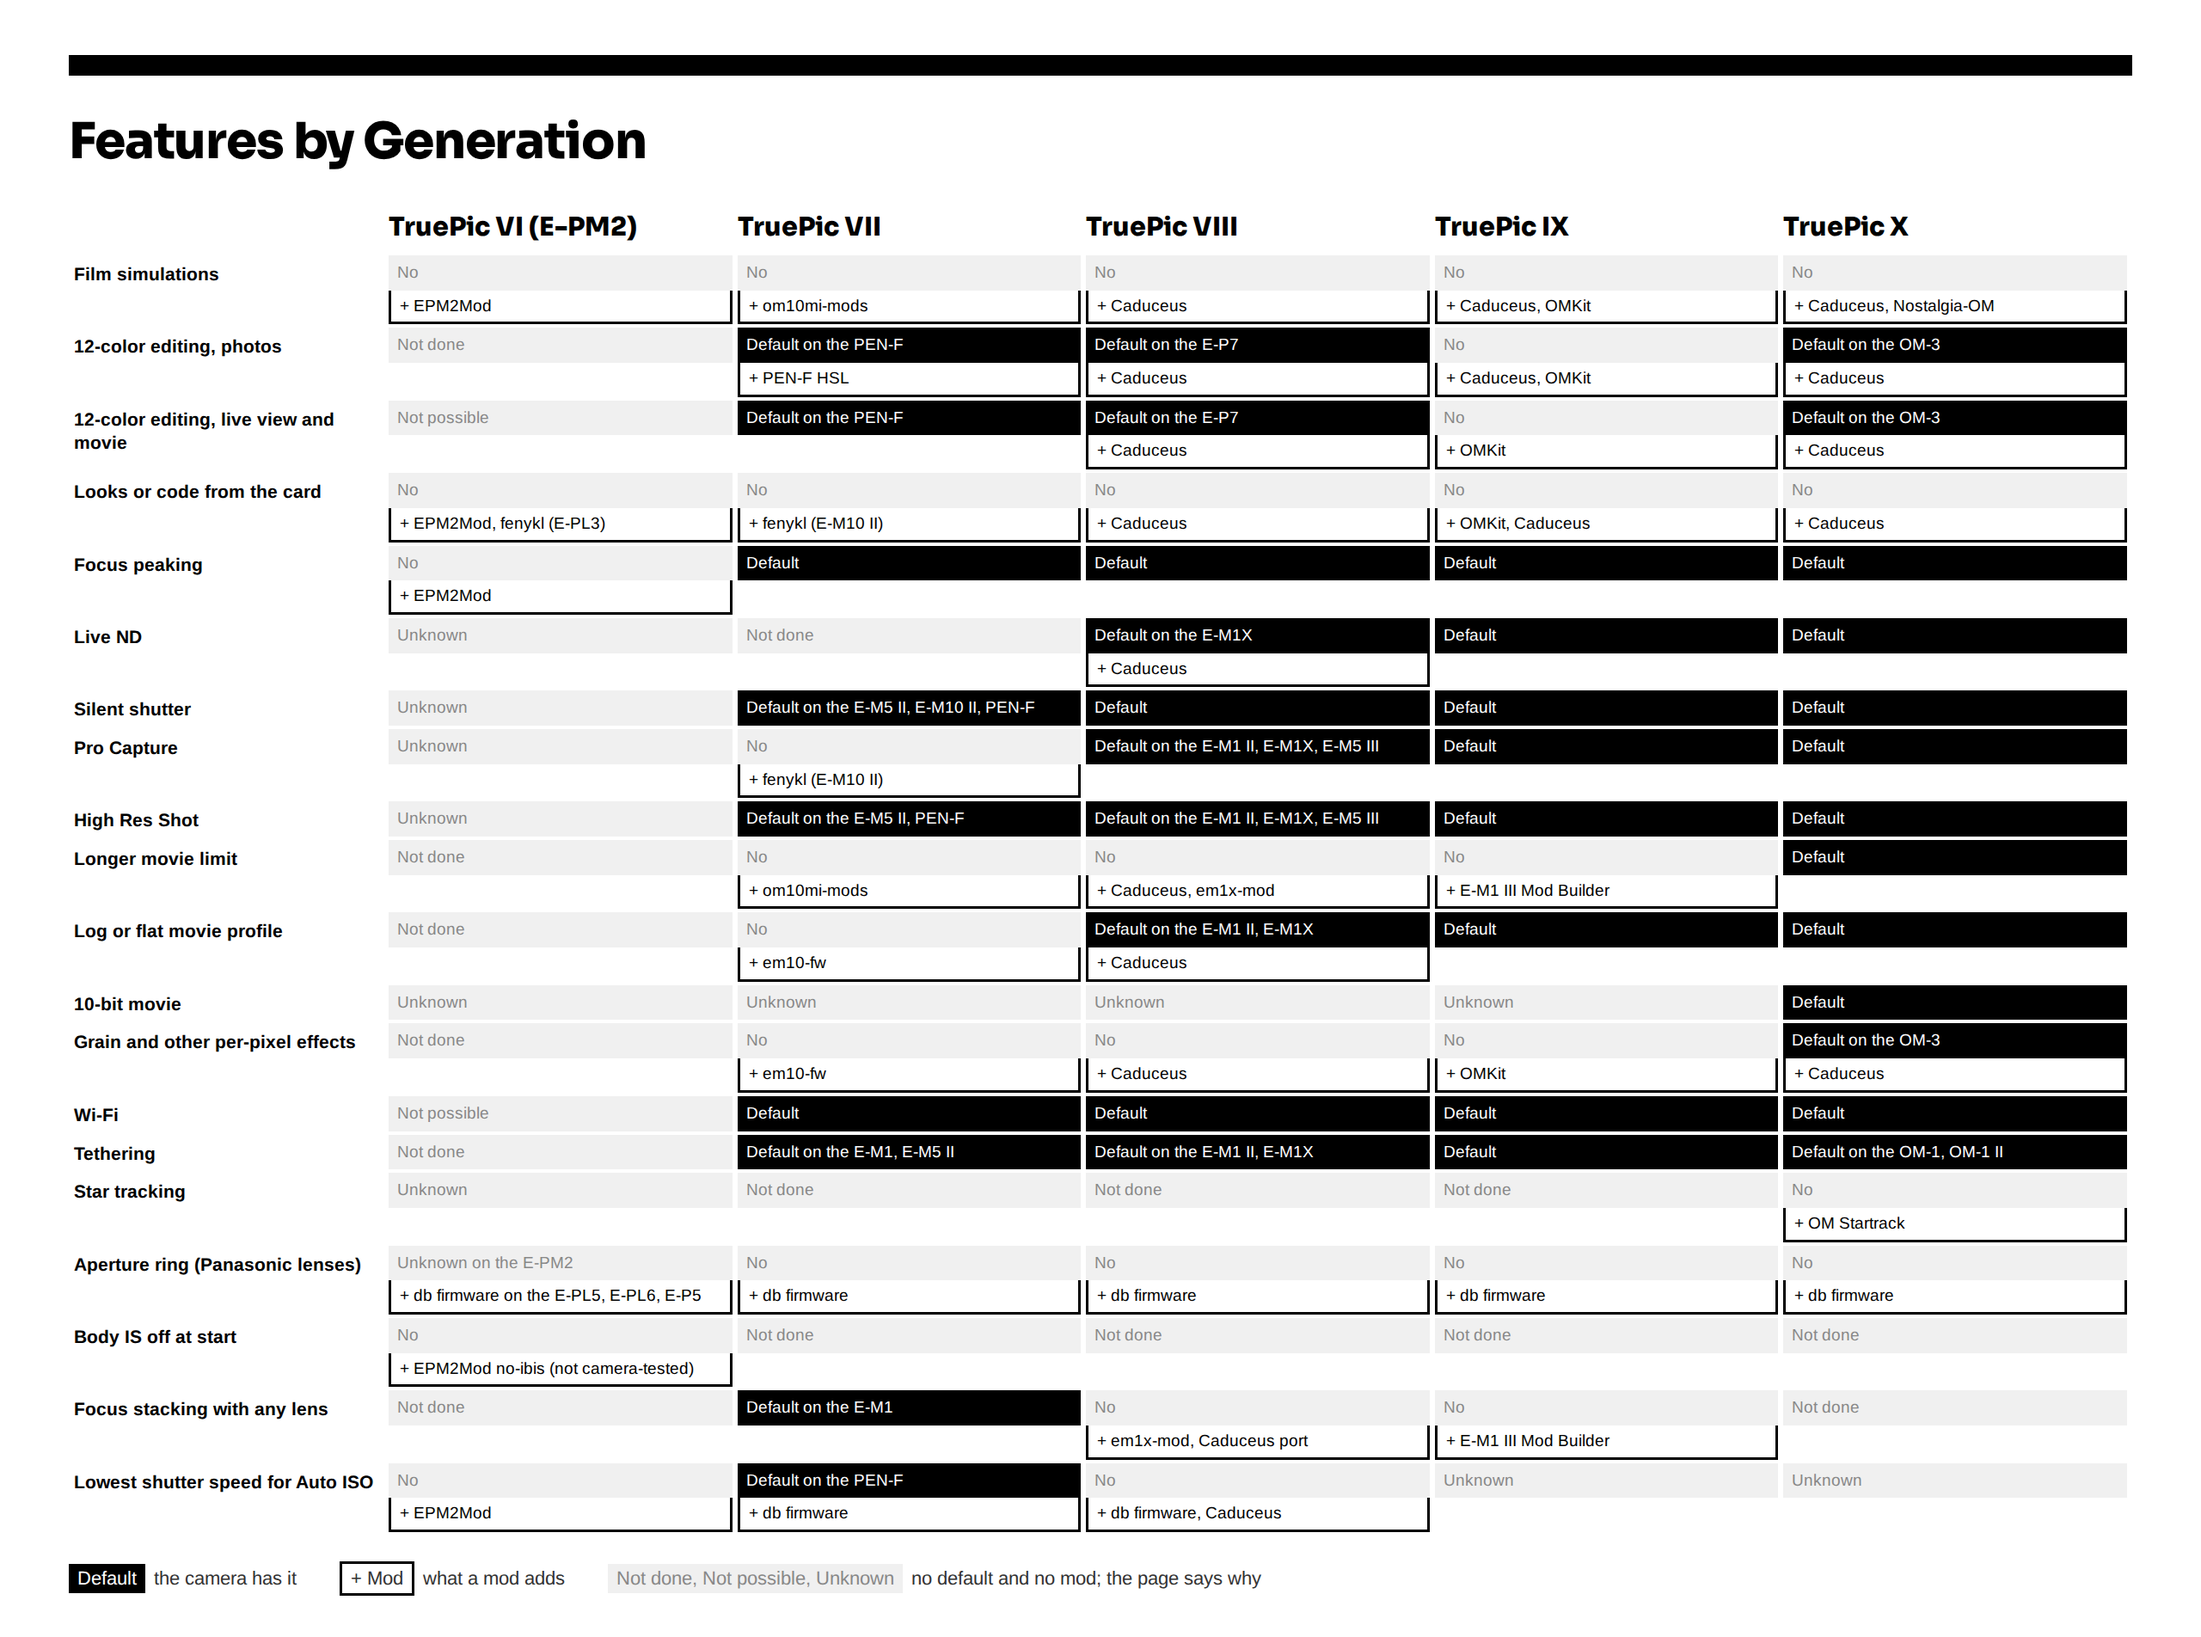
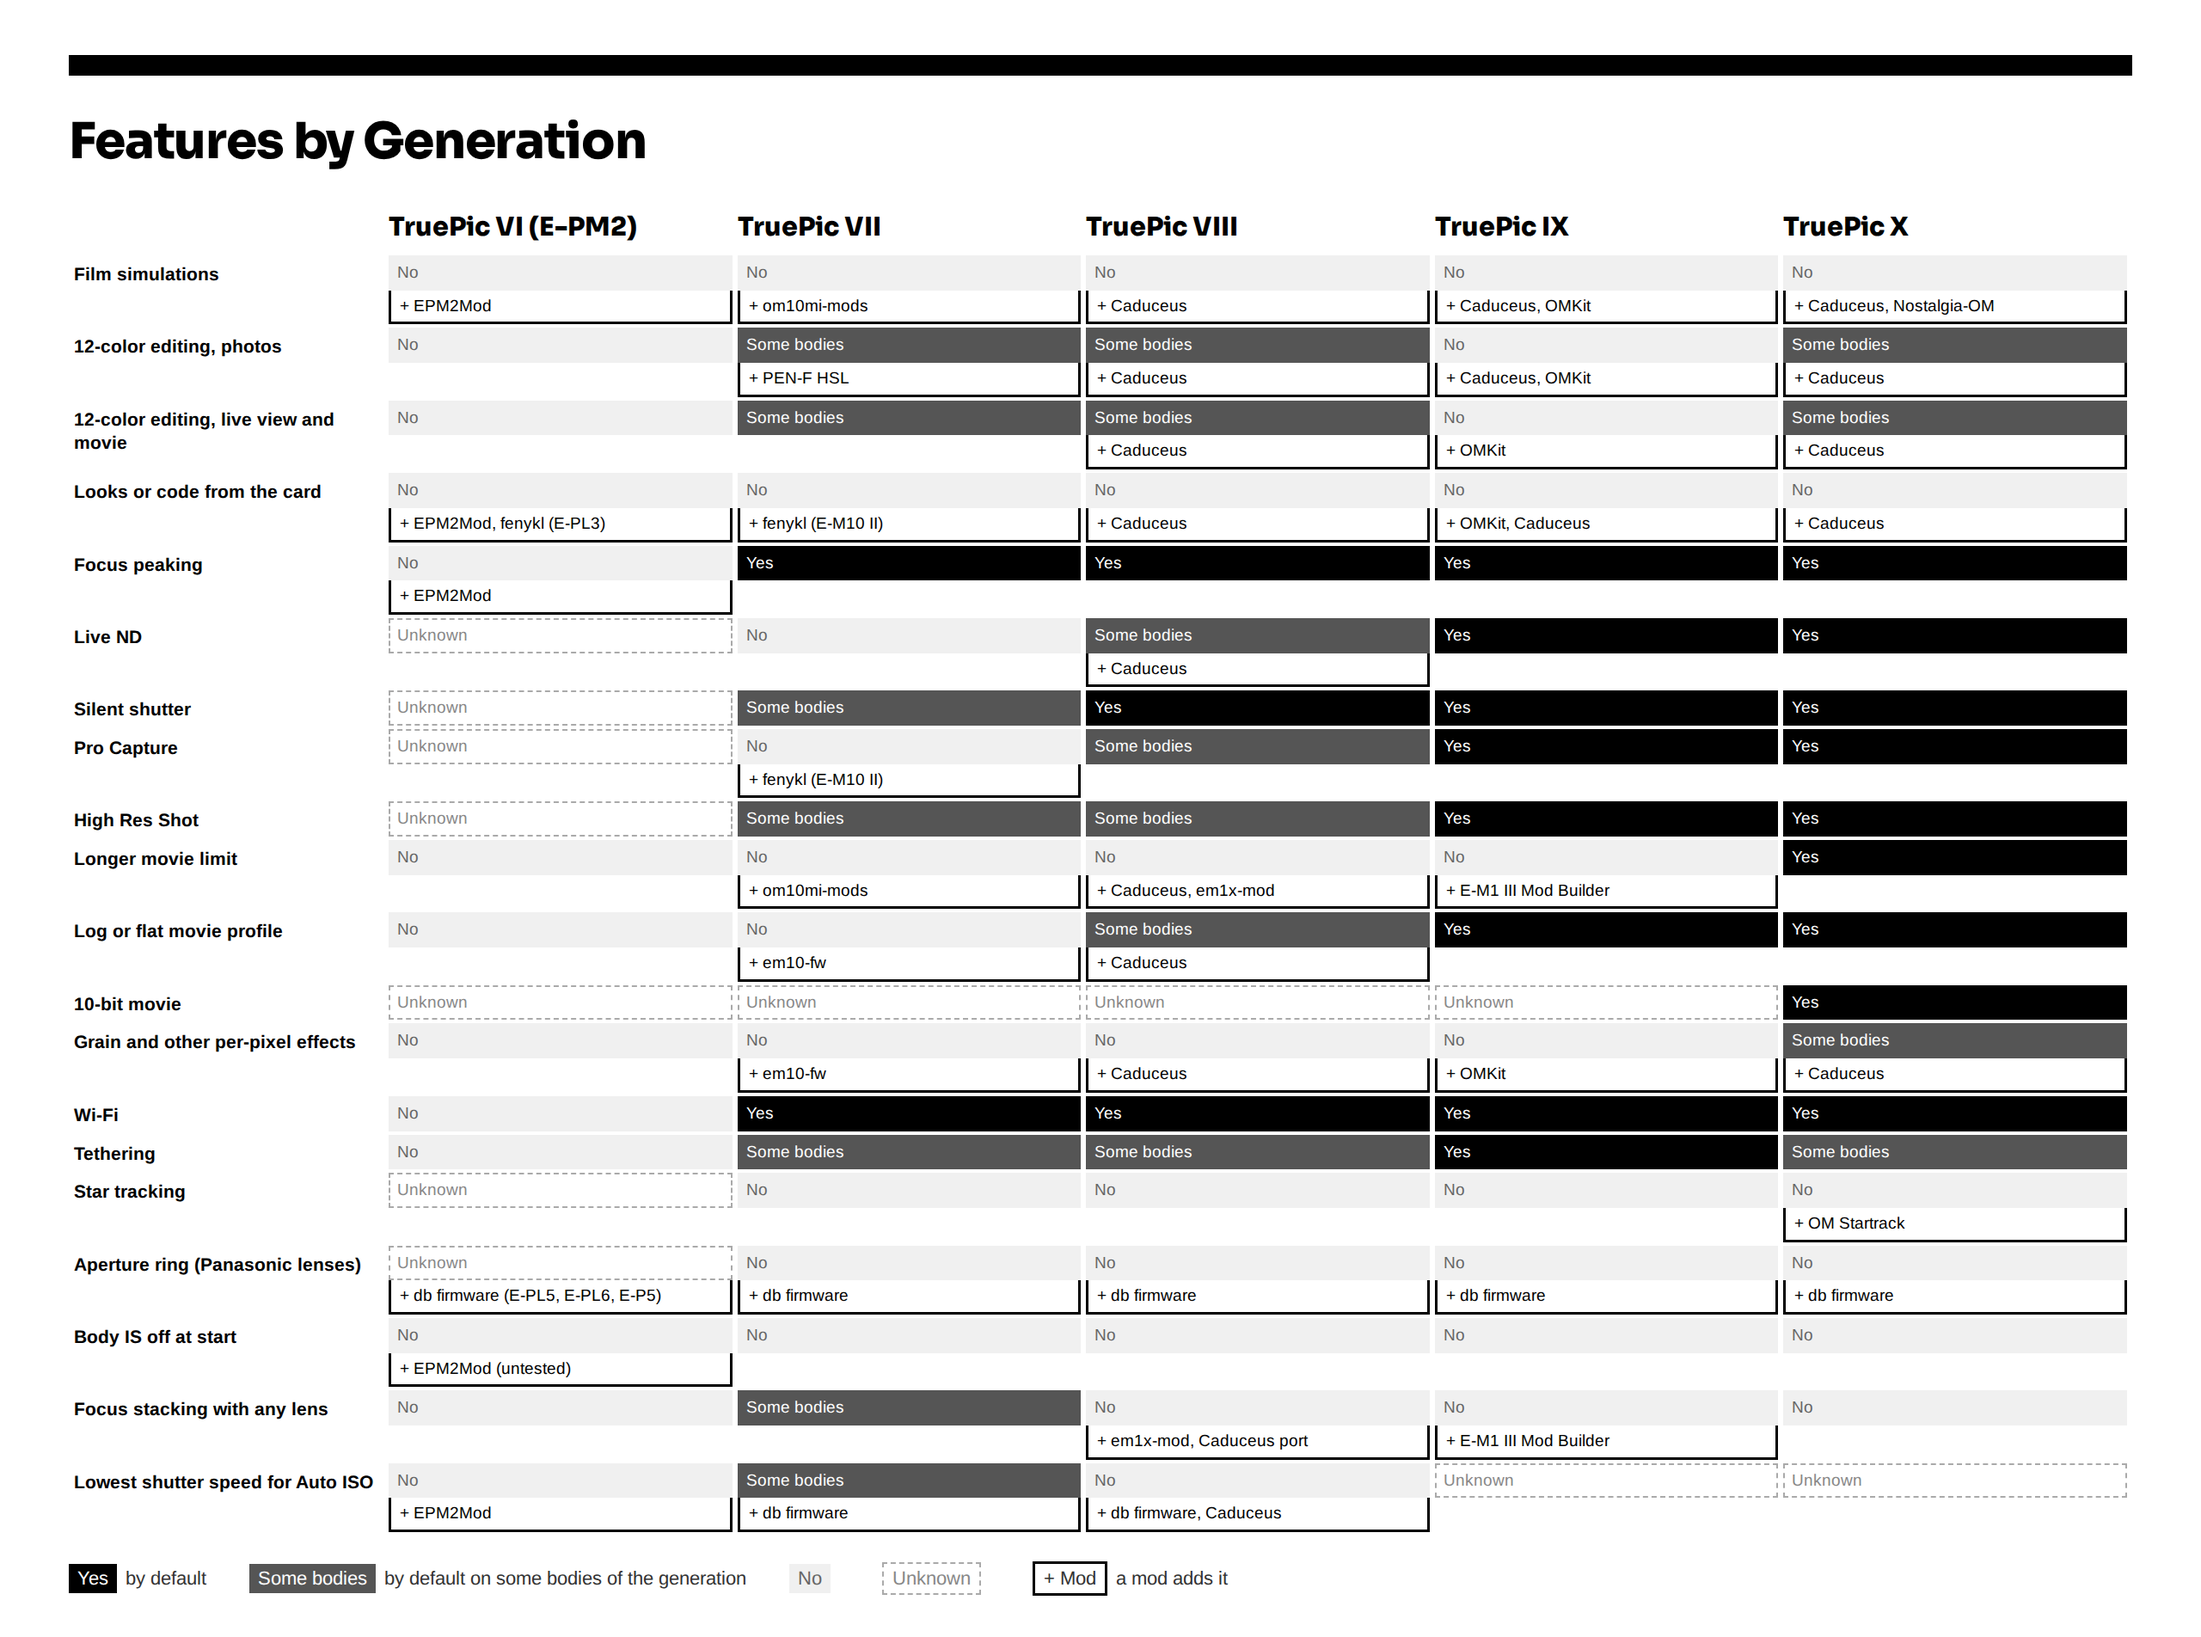
docs(landscape): the feature table and its image in plain values: Yes, Some bodies, No or Unknown, plus the mods

diff --git a/docs/reference/landscape.md b/docs/reference/landscape.md
@@ -31,36 +31,34 @@ Sources for the years: [E-PL3](https://petapixel.com/2011/06/30/olympus-announce
 
 ## Features by Generation
 
-What each generation has (Stock), what a mod adds (Mod), what its parts allow but nobody has built (Not done), what a
-missing part rules out (Not possible), and what no source settles yet (Unknown). In the VI column the E-PM2's
-status comes first. The [model matrix](model-matrix.md#2-features-by-generation)
-gives what each feature needs, the evidence and a link for each cell.
+Each cell gives the default (Yes, Some bodies, No or Unknown), then + and the mods that add the feature. In the VI
+column the default is the E-PM2's. The [model matrix](model-matrix.md#2-features-by-generation) gives what each
+feature needs, the evidence and a link for each cell.
 
 ![Features by generation: what each TruePic generation has by default, and what mods add on top](../images/features-by-generation.png)
 
-
 | Feature | VI (E-PM2) | VII | VIII | IX | X |
 |---|---|---|---|---|---|
-| Film simulations | Mod: EPM2Mod | Mod: om10mi-mods | Mod: Caduceus | Mod: Caduceus, OMKit | Mod: Caduceus, Nostalgia-OM |
-| 12-color editing, photos | Not done: the stage exists | Stock on the PEN-F; Mod: PEN-F HSL | Stock on the E-P7; Mod: Caduceus | Mod: Caduceus, OMKit | Stock on the OM-3; Mod: Caduceus |
-| 12-color editing, live view and movie | Not possible: the stage is in the photo pipeline only | Stock on the PEN-F | Stock on the E-P7; Mod: Caduceus | Mod: OMKit | Stock on the OM-3; Mod: Caduceus |
-| Looks or code from the card | Mod: EPM2Mod, fenykl (E-PL3) | Mod: fenykl (E-M10 II) | Mod: Caduceus | Mod: OMKit, Caduceus | Mod: Caduceus |
-| Focus peaking | Mod: EPM2Mod; Stock on the E-P5 | Stock | Stock | Stock | Stock |
-| Live ND | Unknown | Not done | Stock on the E-M1X; Mod: Caduceus | Stock | Stock |
-| Silent shutter | Unknown | Stock on the E-M5 II, E-M10 II, PEN-F | Stock | Stock | Stock |
-| Pro Capture | Unknown | Mod: fenykl (E-M10 II) | Stock on the E-M1 II, E-M1X, E-M5 III | Stock | Stock |
-| High Res Shot | Unknown | Stock on the E-M5 II, PEN-F | Stock on the E-M1 II, E-M1X, E-M5 III | Stock | Stock |
-| Longer movie limit | Not done: one file of at most 4 GiB | Mod: om10mi-mods | Mod: Caduceus, em1x-mod | Mod: E-M1 III Mod Builder | Stock |
-| Log or flat movie profile | Not done: a flat curve in an ART entry, 8-bit | Mod: em10-fw | Stock on the E-M1 II, E-M1X; Mod: Caduceus | Stock | Stock |
-| 10-bit movie | Unknown | Unknown | Unknown | Unknown | Stock |
-| Grain and other per-pixel effects | Not done: about 1.5–4.5 s per photo | Mod: em10-fw | Mod: Caduceus | Mod: OMKit | Stock on the OM-3; Mod: Caduceus |
-| Wi-Fi | Not possible: no radio; Stock on the E-P5 | Stock | Stock | Stock | Stock |
-| Tethering | Not done: no capture handler | Stock on the E-M1, E-M5 II | Stock on the E-M1 II, E-M1X | Stock | Stock on the OM-1, OM-1 II |
-| Star tracking | Unknown | Not done | Not done | Not done | Mod: OM Startrack |
-| Aperture ring (Panasonic lenses) | Unknown on the E-PM2; Mod: db firmware on the E-PL5, E-PL6, E-P5 | Mod: db firmware | Mod: db firmware | Mod: db firmware | Mod: db firmware |
-| Body IS off at start | Mod: EPM2Mod `no-ibis` (not camera-tested) | Not done | Not done | Not done | Not done |
-| Focus stacking with any lens | Not done: no bracketing or merge in stock | Stock on the E-M1 | Mod: em1x-mod, Caduceus port | Mod: E-M1 III Mod Builder | Not done |
-| Lowest shutter speed for Auto ISO | Mod: EPM2Mod | Stock on the PEN-F; Mod: db firmware | Mod: db firmware, Caduceus | Unknown | Unknown |
+| Film simulations | No + EPM2Mod | No + om10mi-mods | No + Caduceus | No + Caduceus, OMKit | No + Caduceus, Nostalgia-OM |
+| 12-color editing, photos | No | Some bodies + PEN-F HSL | Some bodies + Caduceus | No + Caduceus, OMKit | Some bodies + Caduceus |
+| 12-color editing, live view and movie | No | Some bodies | Some bodies + Caduceus | No + OMKit | Some bodies + Caduceus |
+| Looks or code from the card | No + EPM2Mod, fenykl (E-PL3) | No + fenykl (E-M10 II) | No + Caduceus | No + OMKit, Caduceus | No + Caduceus |
+| Focus peaking | No + EPM2Mod | Yes | Yes | Yes | Yes |
+| Live ND | Unknown | No | Some bodies + Caduceus | Yes | Yes |
+| Silent shutter | Unknown | Some bodies | Yes | Yes | Yes |
+| Pro Capture | Unknown | No + fenykl (E-M10 II) | Some bodies | Yes | Yes |
+| High Res Shot | Unknown | Some bodies | Some bodies | Yes | Yes |
+| Longer movie limit | No | No + om10mi-mods | No + Caduceus, em1x-mod | No + E-M1 III Mod Builder | Yes |
+| Log or flat movie profile | No | No + em10-fw | Some bodies + Caduceus | Yes | Yes |
+| 10-bit movie | Unknown | Unknown | Unknown | Unknown | Yes |
+| Grain and other per-pixel effects | No | No + em10-fw | No + Caduceus | No + OMKit | Some bodies + Caduceus |
+| Wi-Fi | No | Yes | Yes | Yes | Yes |
+| Tethering | No | Some bodies | Some bodies | Yes | Some bodies |
+| Star tracking | Unknown | No | No | No | No + OM Startrack |
+| Aperture ring (Panasonic lenses) | Unknown + db firmware (E-PL5, E-PL6, E-P5) | No + db firmware | No + db firmware | No + db firmware | No + db firmware |
+| Body IS off at start | No + EPM2Mod (untested) | No | No | No | No |
+| Focus stacking with any lens | No | Some bodies | No + em1x-mod, Caduceus port | No + E-M1 III Mod Builder | No |
+| Lowest shutter speed for Auto ISO | No + EPM2Mod | Some bodies + db firmware | No + db firmware, Caduceus | Unknown | Unknown |
 
 ## Why EPM2Mod Is Not a Fork
 
